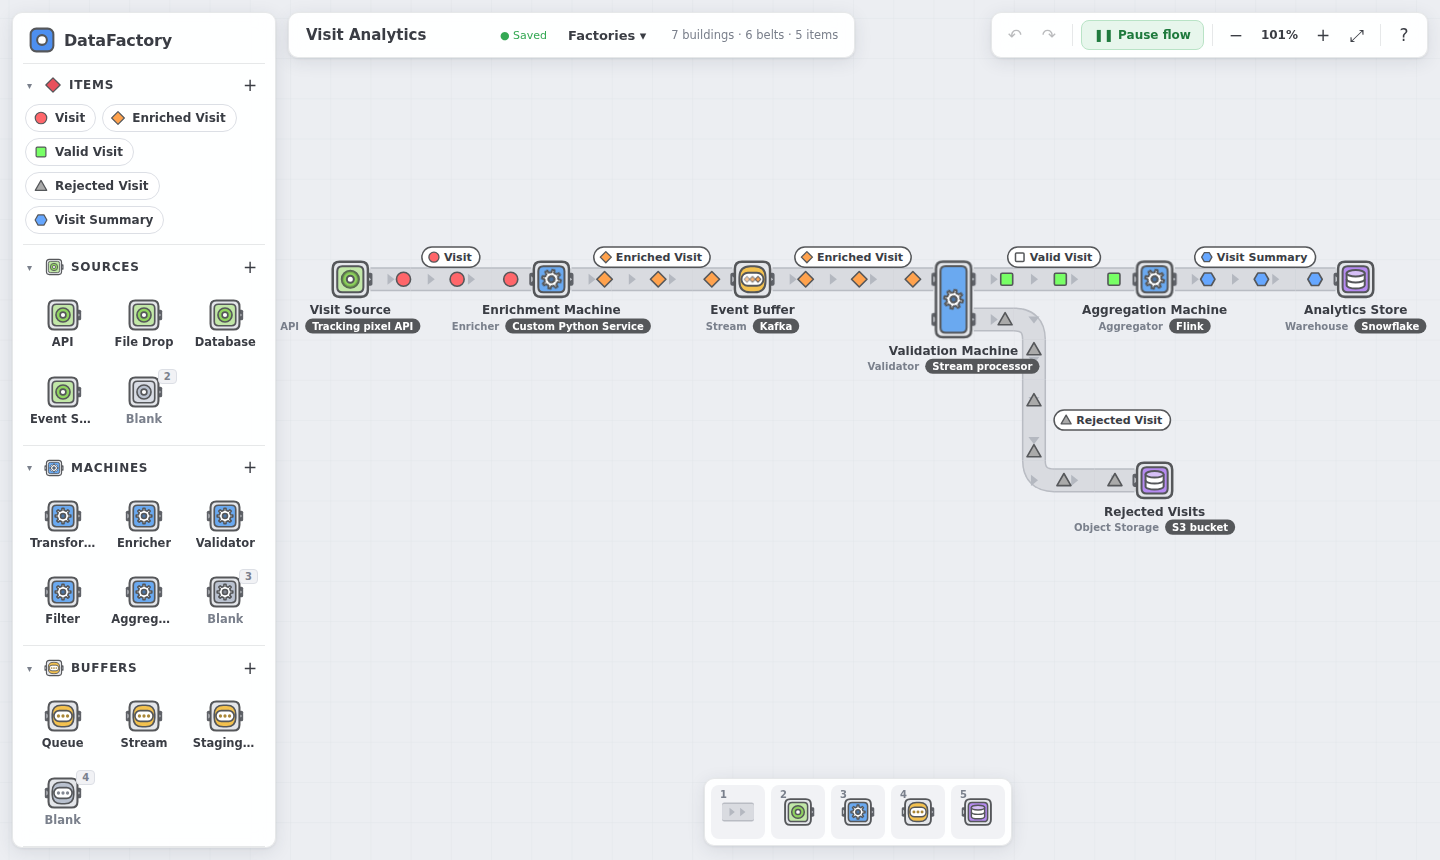
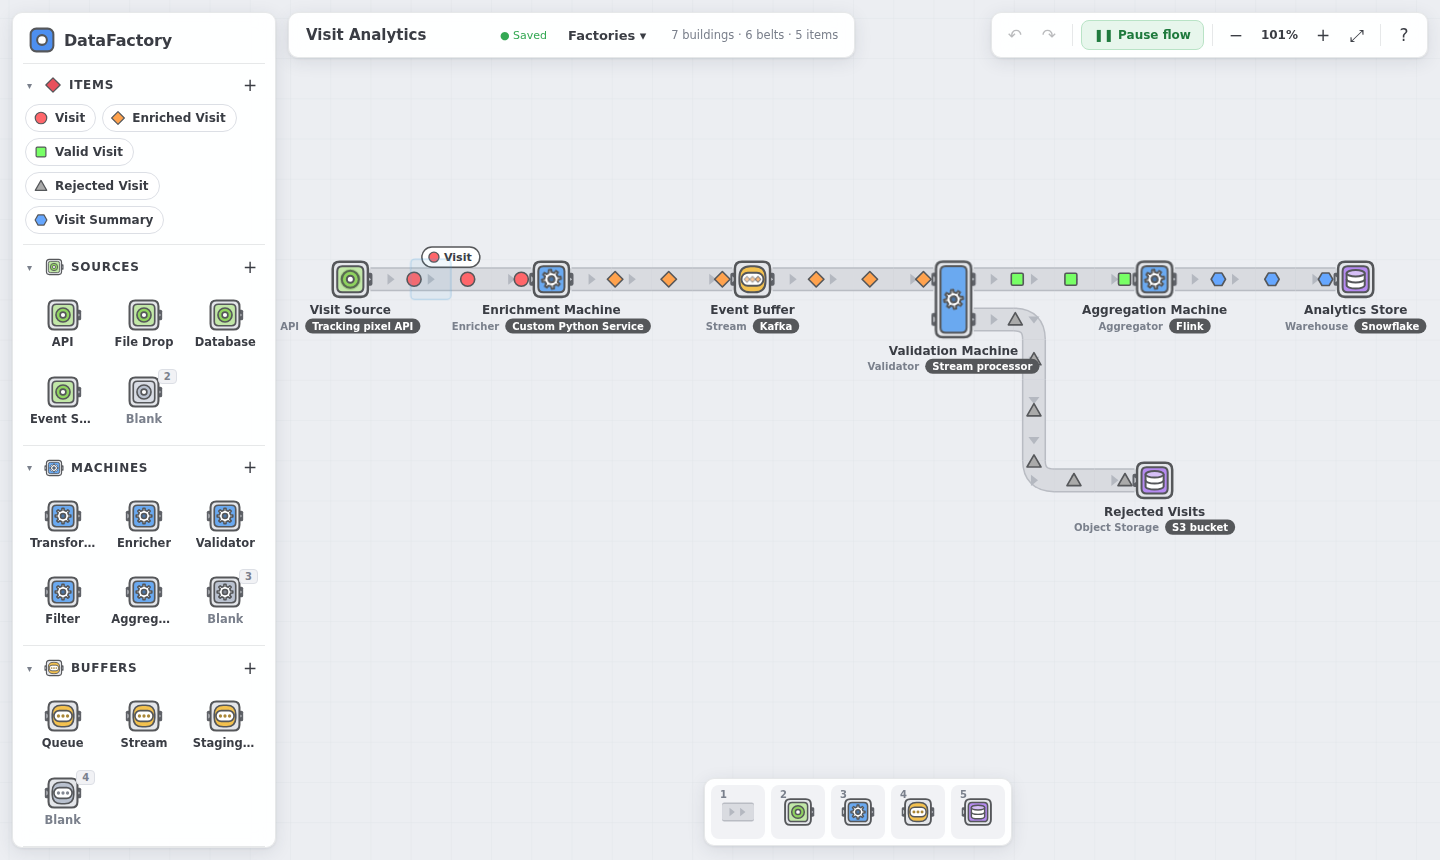
Only label the hovered or selected belt
Item labels on every belt cluttered the floor; the moving item shapes
already show what a belt carries. A belt's label now appears only while
it is hovered or selected.

Claude-Session: https://claude.ai/code/session_0197dJSN28x8urR3fRy3ZEtr

diff --git a/src/components/Canvas.tsx b/src/components/Canvas.tsx
@@ -408,7 +408,15 @@ export function Canvas() {
   }, [paintPreview, ghost, occupancy]);
 
   const cellPx = CELL * view.zoom;
-  const showLabels = view.zoom >= 0.45;
+  // Belt labels only for the belt under the cursor or the selected one; the item shapes speak for themselves.
+  const labelledLinks = useMemo(() => {
+    const ids = new Set<string>();
+    const hoverTile = hover && !tool ? occupancy.get(cellKey(hover.x, hover.y))?.tile : undefined;
+    for (const l of links) {
+      if ((hoverTile && l.tiles.includes(hoverTile)) || (selection.belt && l.tiles.some((t) => t.id === selection.belt))) ids.add(l.id);
+    }
+    return ids;
+  }, [hover, tool, occupancy, links, selection.belt]);
 
   return (
     <div
@@ -444,7 +452,7 @@ export function Canvas() {
                 link={l}
                 item={l.itemId ? itemsById.get(l.itemId) ?? null : null}
                 dimmed={!!activeItem && l.itemId !== activeItem}
-                showLabel={showLabels}
+                showLabel={labelledLinks.has(l.id)}
               />
             ))}
           </g>

diff --git a/README.md b/README.md
@@ -73,6 +73,7 @@ It plays like shapez.io: pick a tool, left-click to build, right-click to destro
 | Duplicate / delete | `Ctrl D` / `Del` |
 | Undo / redo | `Ctrl Z` / `Ctrl Shift Z` |
 | Pan / zoom | Drag the floor, `WASD`, `Space`+drag or the middle mouse button / scroll, `+` `−`, `F` to fit |
+| See what a belt carries | Hover the belt (or select it) to show its item label |
 | Highlight a flow | Hover an item in the palette to see every belt and building that handles it |
 | Pause the animation | `P` or **Pause flow** |
 
